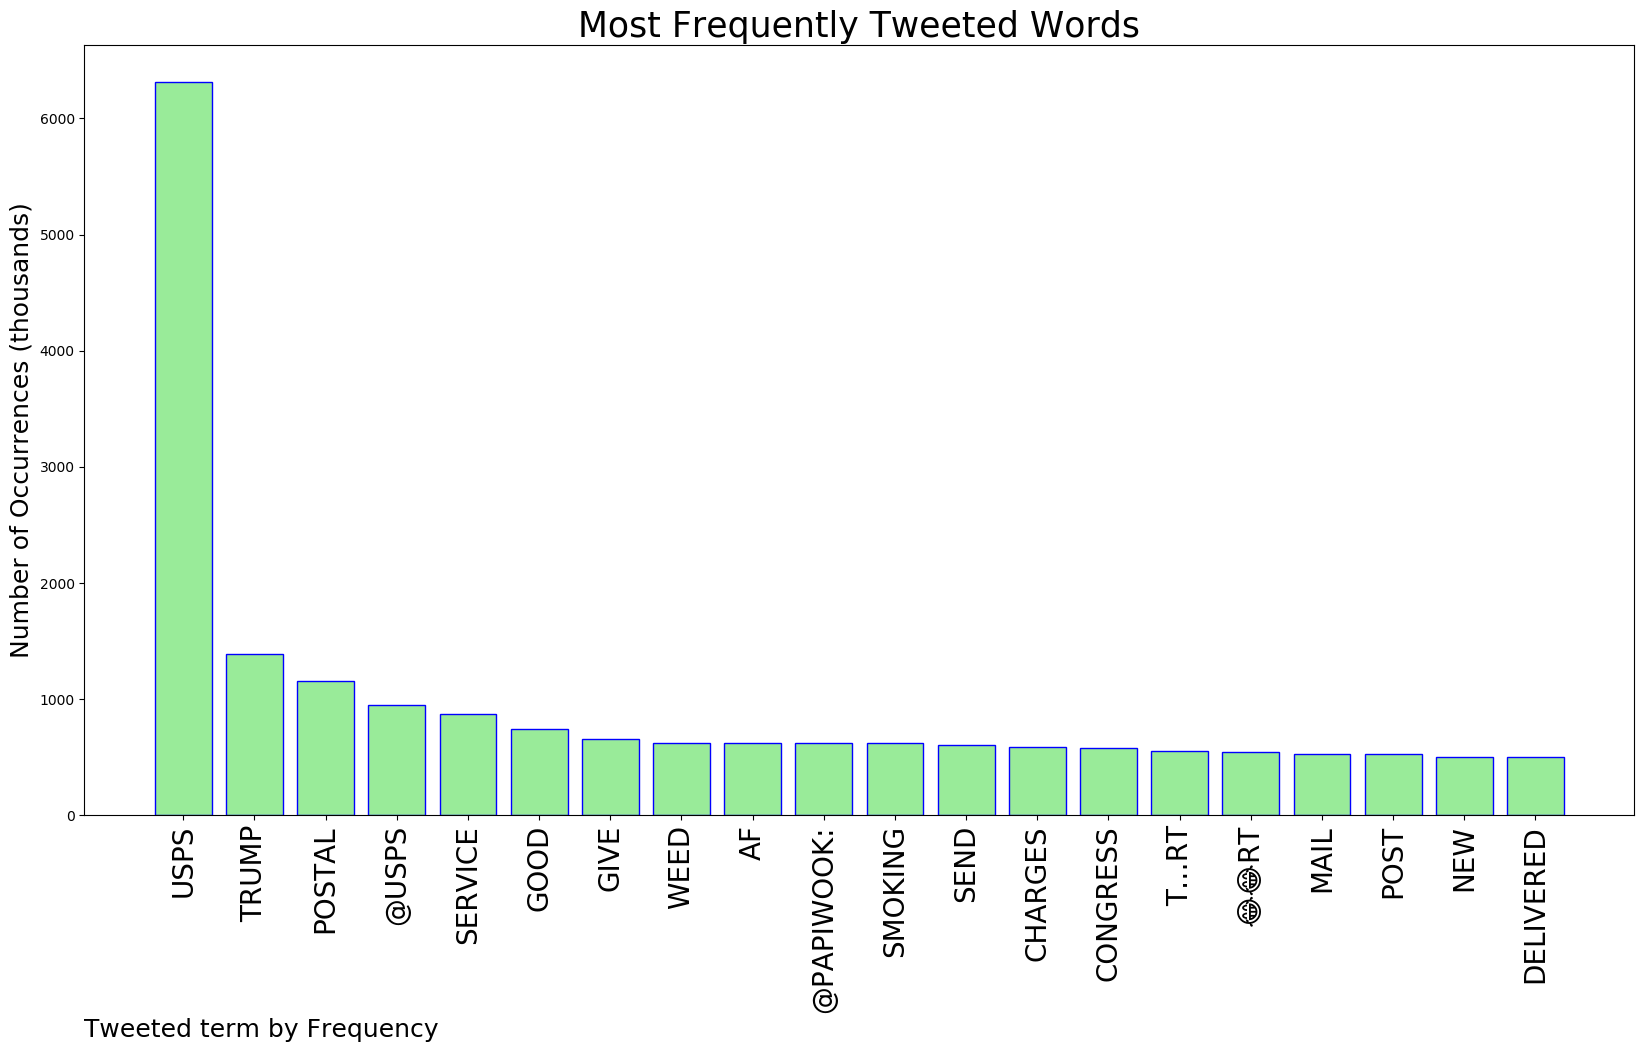
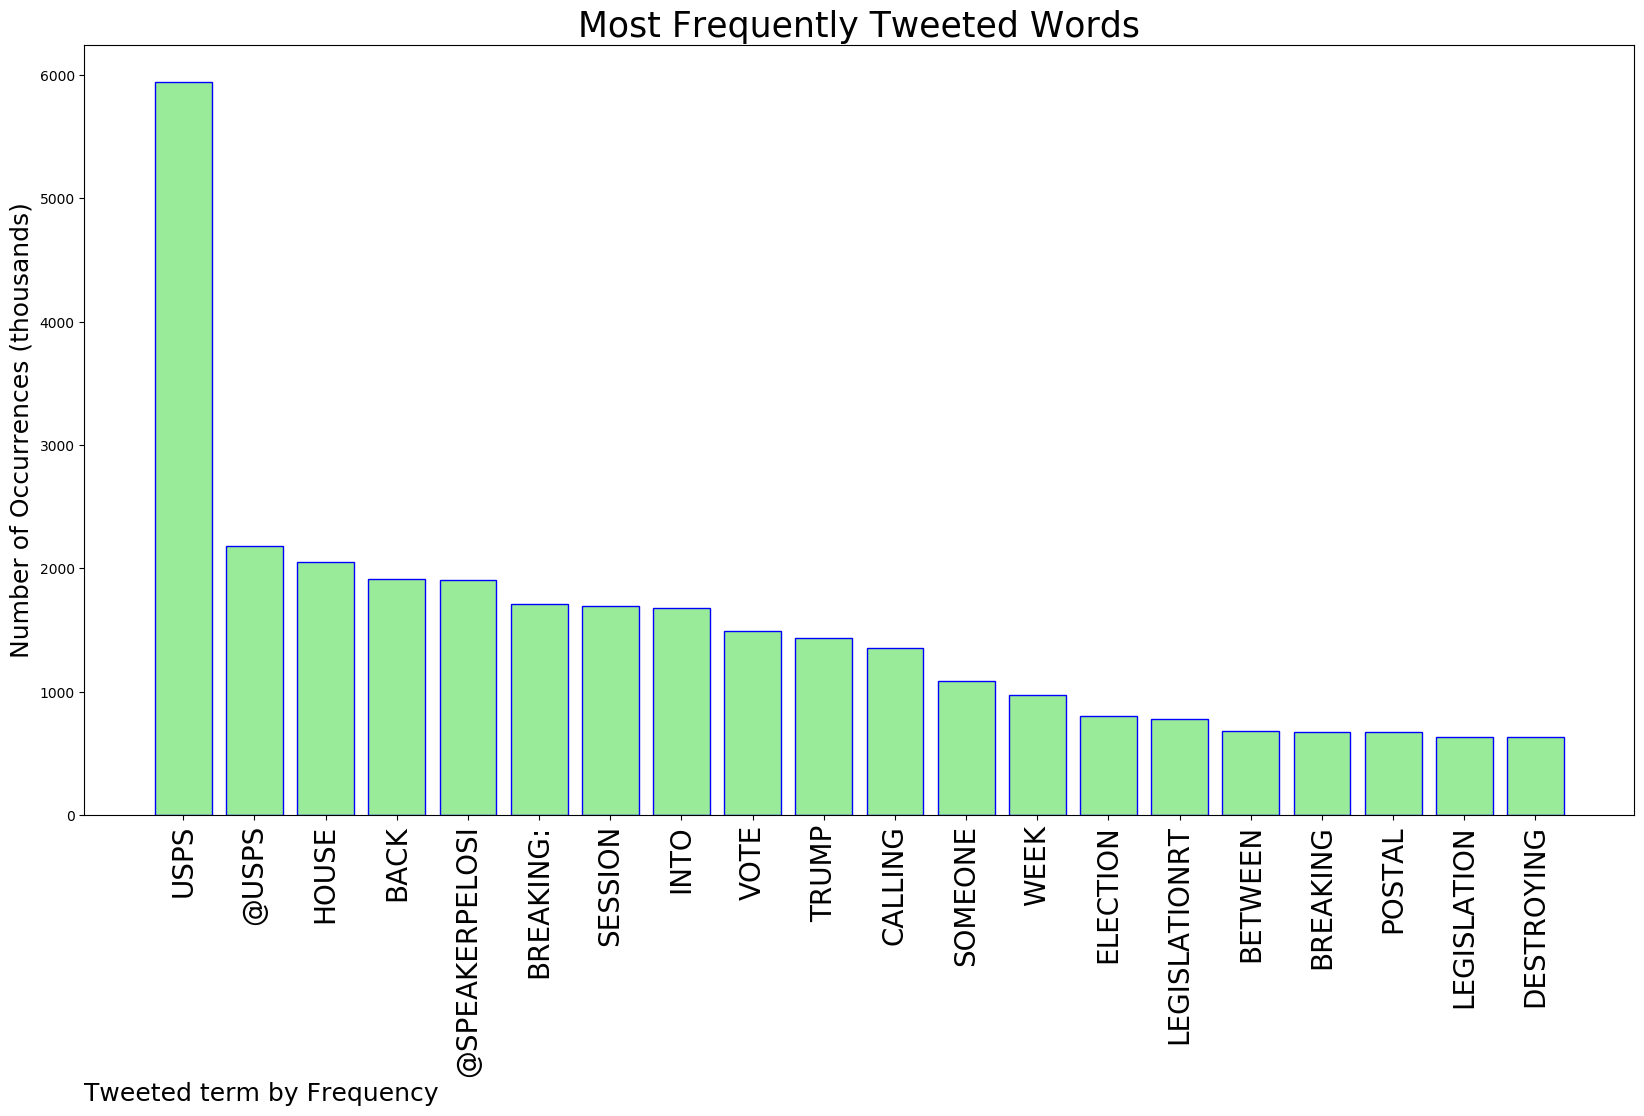
Updating with latest report

diff --git a/README.md b/README.md
@@ -15,22 +15,22 @@
 
 |                **Sample-Tweets**        |
 | :-------------: |
-| RT @DrSGraff: Remember that time that #breastcancer stamps sold by the @USPS helped fund the #TAILORx study—answering one of the critical q… |
-| Do you think we will get to the bottom of the @USPS before we start worrying about the Nation’s electrical grid?@SpeakerPelosi |
-| RT @MarshaBlackburn: Russia hoax, impeachment hoax, USPS hoax... Democrats will say anything to discredit @realDonaldTrump. https://t.co/Qy… |
+| The @usps page says it arrived at the PO at 4:03pm. I guess the lazy ass driver didn’t feel like delivering all their packages today. |
+| RT @Public_Citizen: The USPS is literally required in the constitution and any attempt to destroy it is a coup against America. |
+| RT @RBReich: So let me get this straight: We can afford billions on new F-35s, but we can’t afford to fund the USPS to deliver medicine to… |
 
-The most popular user is: **gracesiebenthal**
+The most popular user is: **SamiSunshinexx**
 <div class="alert alert-block alert-danger"> RT @BarackObama: Everyone depends on the USPS. Seniors for their Social Security, veterans for their prescriptions, small businesses trying…</div>
 
 ## RELATED METRICS<br>
 | Metric | Value |
 | ------------- | ------------- |
 | #1 Most tweeted to  | **USPS** |
-| #2 Most tweeted to  | **Papiwook** |
-| #3 Most tweeted to  | **realDonaldTrump** |
-| NewProfiles (less than 10 days) | 0.34%  |
-| Tweeters with < 10 followers  | 2.93%|
-| Tweeters with > 1000000 followers  | 0.02%  |
+| #2 Most tweeted to  | **SpeakerPelosi** |
+| #3 Most tweeted to  | **kasie** |
+| NewProfiles (less than 10 days) | 0.36%  |
+| Tweeters with < 10 followers  | 3.08%|
+| Tweeters with > 1000000 followers  | 0.03%  |
 
 
 
@@ -40,25 +40,25 @@ The most popular user is: **gracesiebenthal**
 | Popularity Rank  | Term |
 | ------------- | ------------- |
 | first  | **USPS**  |
-| second  | **TRUMP**  |
-| third  | **POSTAL** |
-| fourth  | **@USPS**  |
-| fifth  | **SERVICE**  |
+| second  | **@USPS**  |
+| third  | **HOUSE** |
+| fourth  | **BACK**  |
+| fifth  | **@SPEAKERPELOSI**  |
 
 
 ## Twitter Bio Analysis![image](BIO.png)
 ### SENTIMENT ANALYSIS
 ![image](sentiment.png)
-VIEWS WERE : **SUBJECTIVE**  (40.0%) & **NEGATIVELY-SUBJECTIVE** (0.0%) **OBJECTIVE** (60.0%)
+VIEWS WERE : **SUBJECTIVE**  (21.43%) & **NEGATIVELY-SUBJECTIVE** (28.57%) **OBJECTIVE** (50.0%)
 
 ### TWEET SAMPLE 
 | Random value picked from array |
 | ------------- |
-|RT @RBReich: So let me get this straight: We can afford billions on new F-35s, but we can’t afford to fund the USPS to deliver medicine to… |
+|RT @BarbMcQuade: Congress created crisis at @USPS. 2006 law required USPS to create $72 billion fund to pay for post-retirement health care… |
 
 ### MOST RETWEETED 
 
-| The most retweeted user is: **gracesiebenthal**  |
+| The most retweeted user is: **SamiSunshinexx**  |
 | ------------- |
 | RT @BarackObama: Everyone depends on the USPS. Seniors for their Social Security, veterans for their prescriptions, small businesses trying… |
 
